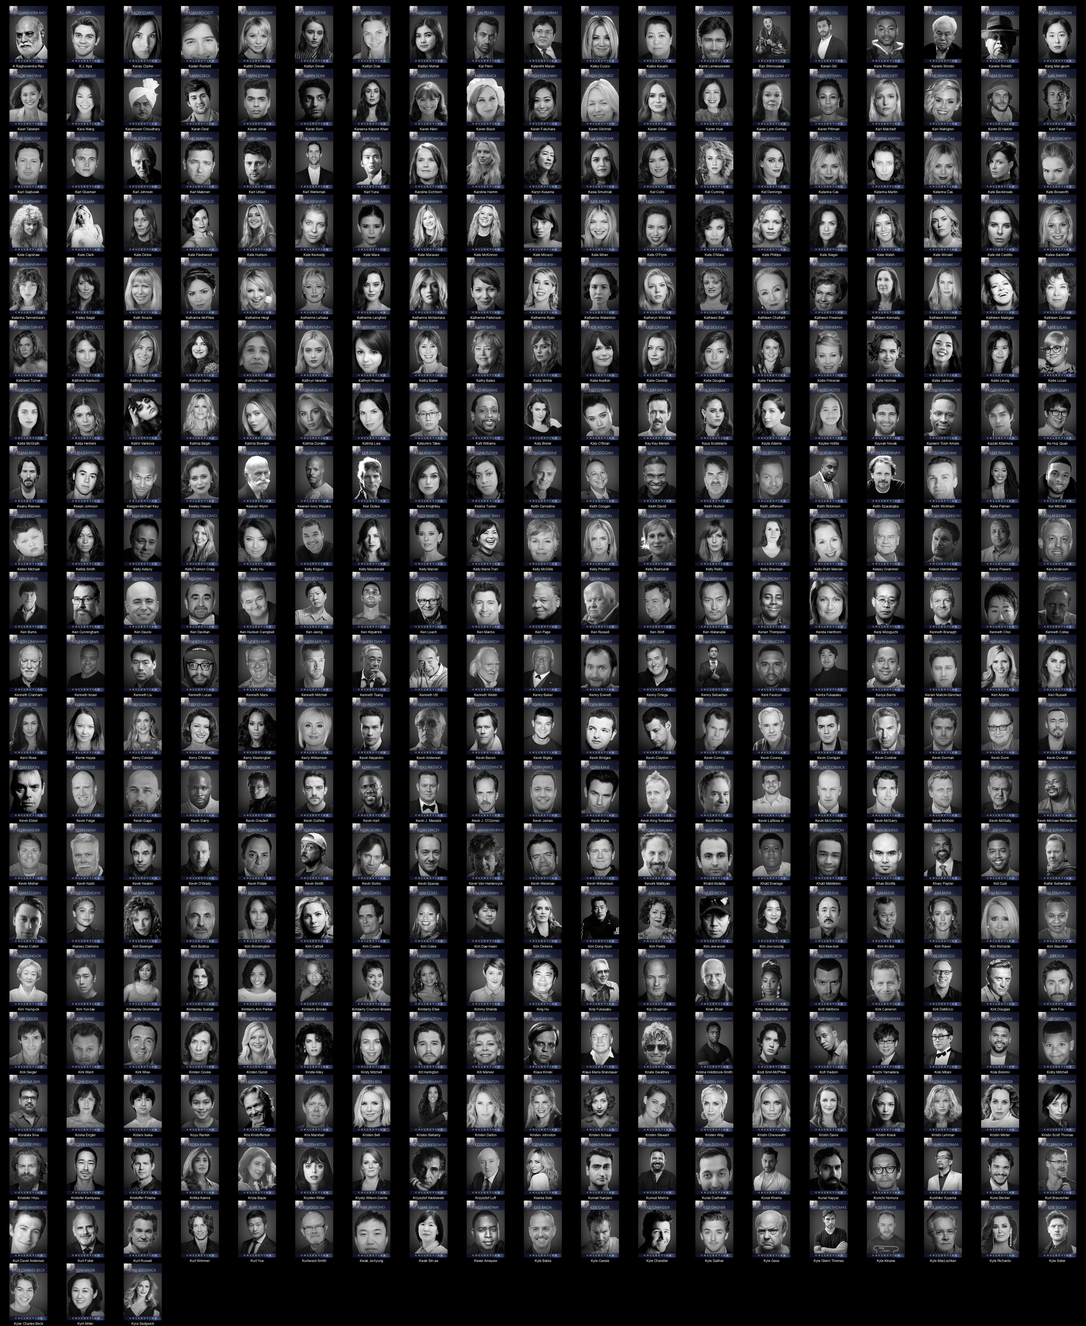
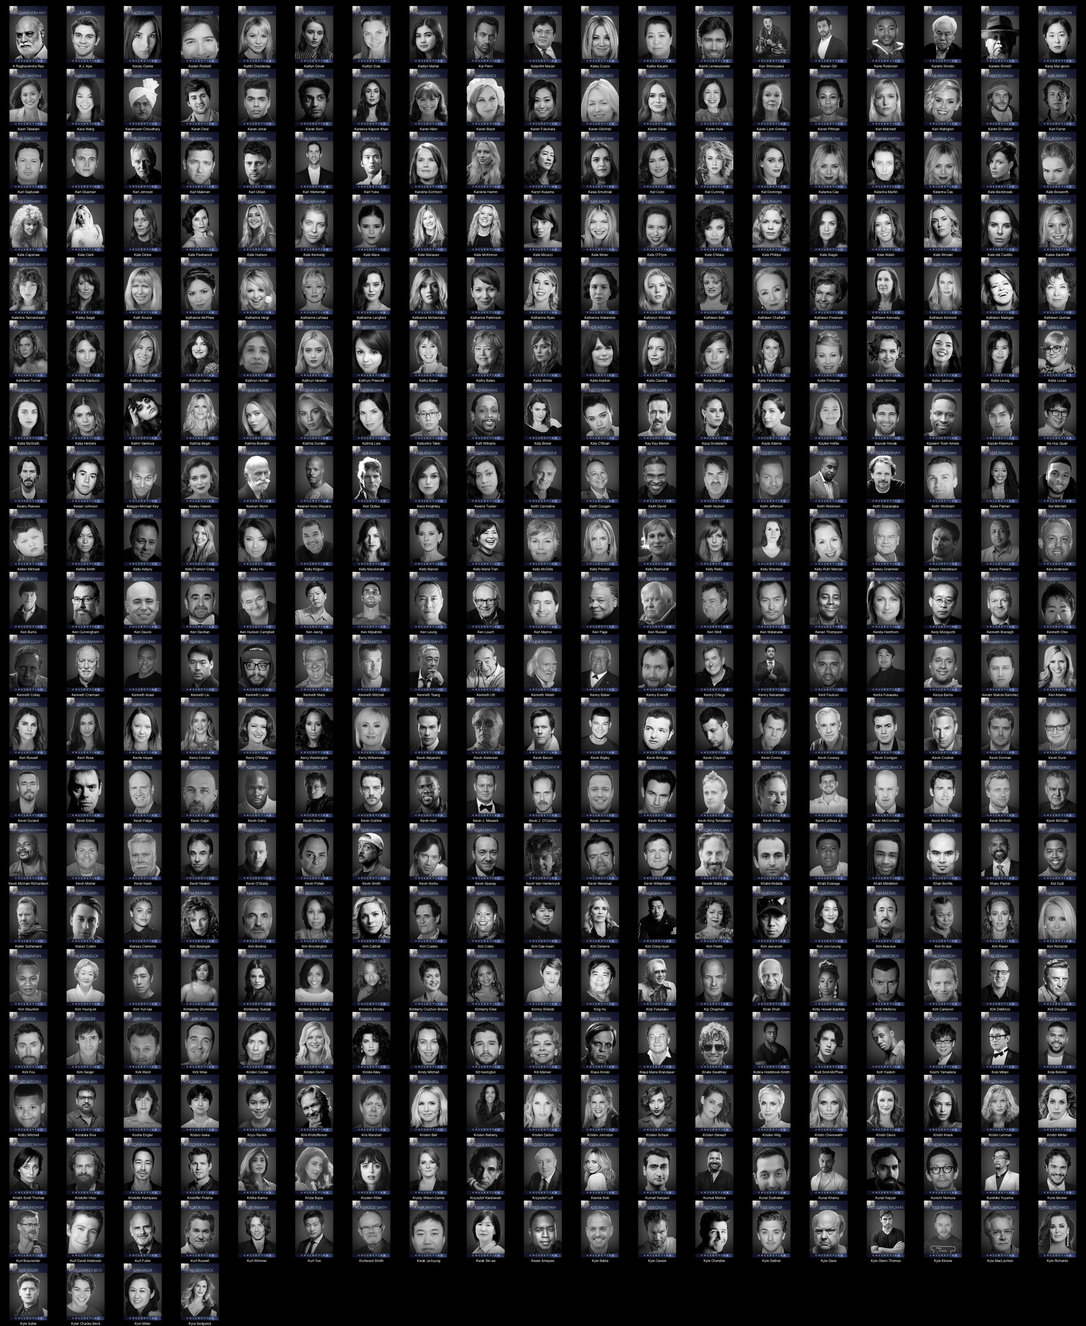
Readme Update

Changed region(s): [[0.0, 0.4375, 0.9937, 1.0]]

diff --git a/README.md b/README.md
@@ -1,15 +1,16 @@
-# Plex Meta Manager People - DIIIVOY (diiivoy) (8616 Images)
+# Plex Meta Manager People - DIIIVOY (diiivoy) (8627 Images)
 
 <details><summary><a href="'">' (1 Images)</a></summary>
 
 * ['Weird Al' Yankovic](https://raw.githubusercontent.com/meisnate12/Plex-Meta-Manager-People-diiivoy/master/'/Images/%27Weird%20Al%27%20Yankovic.jpg)
 </details>
-<details><summary><a href="A">A (710 Images)</a></summary>
+<details><summary><a href="A">A (711 Images)</a></summary>
 
 * [Aamir Khan](https://raw.githubusercontent.com/meisnate12/Plex-Meta-Manager-People-diiivoy/master/A/Images/Aamir%20Khan.jpg)
 * [Aanand L. Rai](https://raw.githubusercontent.com/meisnate12/Plex-Meta-Manager-People-diiivoy/master/A/Images/Aanand%20L.%20Rai.jpg)
 * [Aaron Ashmore](https://raw.githubusercontent.com/meisnate12/Plex-Meta-Manager-People-diiivoy/master/A/Images/Aaron%20Ashmore.jpg)
 * [Aaron Beelner](https://raw.githubusercontent.com/meisnate12/Plex-Meta-Manager-People-diiivoy/master/A/Images/Aaron%20Beelner.jpg)
+* [Aaron Burns](https://raw.githubusercontent.com/meisnate12/Plex-Meta-Manager-People-diiivoy/master/A/Images/Aaron%20Burns.jpg)
 * [Aaron Eckhart](https://raw.githubusercontent.com/meisnate12/Plex-Meta-Manager-People-diiivoy/master/A/Images/Aaron%20Eckhart.jpg)
 * [Aaron Haynes](https://raw.githubusercontent.com/meisnate12/Plex-Meta-Manager-People-diiivoy/master/A/Images/Aaron%20Haynes.jpg)
 * [Aaron Hilmer](https://raw.githubusercontent.com/meisnate12/Plex-Meta-Manager-People-diiivoy/master/A/Images/Aaron%20Hilmer.jpg)
@@ -2812,7 +2813,7 @@
 * [Fritz Lang](https://raw.githubusercontent.com/meisnate12/Plex-Meta-Manager-People-diiivoy/master/F/Images/Fritz%20Lang.jpg)
 * [Frédéric North](https://raw.githubusercontent.com/meisnate12/Plex-Meta-Manager-People-diiivoy/master/F/Images/Fr%C3%A9d%C3%A9ric%20North.jpg)
 </details>
-<details><summary><a href="G">G (300 Images)</a></summary>
+<details><summary><a href="G">G (302 Images)</a></summary>
 
 * [G-Eazy](https://raw.githubusercontent.com/meisnate12/Plex-Meta-Manager-People-diiivoy/master/G/Images/G-Eazy.jpg)
 * [G. D. Spradlin](https://raw.githubusercontent.com/meisnate12/Plex-Meta-Manager-People-diiivoy/master/G/Images/G.%20D.%20Spradlin.jpg)
@@ -2935,6 +2936,7 @@
 * [George Sear](https://raw.githubusercontent.com/meisnate12/Plex-Meta-Manager-People-diiivoy/master/G/Images/George%20Sear.jpg)
 * [George Segal](https://raw.githubusercontent.com/meisnate12/Plex-Meta-Manager-People-diiivoy/master/G/Images/George%20Segal.jpg)
 * [George Takei](https://raw.githubusercontent.com/meisnate12/Plex-Meta-Manager-People-diiivoy/master/G/Images/George%20Takei.jpg)
+* [George Tillman Jr.](https://raw.githubusercontent.com/meisnate12/Plex-Meta-Manager-People-diiivoy/master/G/Images/George%20Tillman%20Jr..jpg)
 * [George Wendt](https://raw.githubusercontent.com/meisnate12/Plex-Meta-Manager-People-diiivoy/master/G/Images/George%20Wendt.jpg)
 * [George Zucco](https://raw.githubusercontent.com/meisnate12/Plex-Meta-Manager-People-diiivoy/master/G/Images/George%20Zucco.jpg)
 * [Georges Khabbaz](https://raw.githubusercontent.com/meisnate12/Plex-Meta-Manager-People-diiivoy/master/G/Images/Georges%20Khabbaz.jpg)
@@ -2942,6 +2944,7 @@
 * [Georges Rivière](https://raw.githubusercontent.com/meisnate12/Plex-Meta-Manager-People-diiivoy/master/G/Images/Georges%20Rivi%C3%A8re.jpg)
 * [Georges St-Pierre](https://raw.githubusercontent.com/meisnate12/Plex-Meta-Manager-People-diiivoy/master/G/Images/Georges%20St-Pierre.jpg)
 * [Georgia Meacham](https://raw.githubusercontent.com/meisnate12/Plex-Meta-Manager-People-diiivoy/master/G/Images/Georgia%20Meacham.jpg)
+* [Georgia Oakley](https://raw.githubusercontent.com/meisnate12/Plex-Meta-Manager-People-diiivoy/master/G/Images/Georgia%20Oakley.jpg)
 * [Georgie Glen](https://raw.githubusercontent.com/meisnate12/Plex-Meta-Manager-People-diiivoy/master/G/Images/Georgie%20Glen.jpg)
 * [Georgie Henley](https://raw.githubusercontent.com/meisnate12/Plex-Meta-Manager-People-diiivoy/master/G/Images/Georgie%20Henley.jpg)
 * [Georgina Cates](https://raw.githubusercontent.com/meisnate12/Plex-Meta-Manager-People-diiivoy/master/G/Images/Georgina%20Cates.jpg)
@@ -3422,7 +3425,7 @@
 * [Izaac Wang](https://raw.githubusercontent.com/meisnate12/Plex-Meta-Manager-People-diiivoy/master/I/Images/Izaac%20Wang.jpg)
 * [Izabella Scorupco](https://raw.githubusercontent.com/meisnate12/Plex-Meta-Manager-People-diiivoy/master/I/Images/Izabella%20Scorupco.jpg)
 </details>
-<details><summary><a href="J">J (1067 Images)</a></summary>
+<details><summary><a href="J">J (1069 Images)</a></summary>
 
 * [J'Dvonte](https://raw.githubusercontent.com/meisnate12/Plex-Meta-Manager-People-diiivoy/master/J/Images/J%27Dvonte.jpg)
 * [J. A. Bayona](https://raw.githubusercontent.com/meisnate12/Plex-Meta-Manager-People-diiivoy/master/J/Images/J.%20A.%20Bayona.jpg)
@@ -3573,6 +3576,7 @@
 * [James Marsden](https://raw.githubusercontent.com/meisnate12/Plex-Meta-Manager-People-diiivoy/master/J/Images/James%20Marsden.jpg)
 * [James Marsters](https://raw.githubusercontent.com/meisnate12/Plex-Meta-Manager-People-diiivoy/master/J/Images/James%20Marsters.jpg)
 * [James Mason](https://raw.githubusercontent.com/meisnate12/Plex-Meta-Manager-People-diiivoy/master/J/Images/James%20Mason.jpg)
+* [James May](https://raw.githubusercontent.com/meisnate12/Plex-Meta-Manager-People-diiivoy/master/J/Images/James%20May.jpg)
 * [James McAvoy](https://raw.githubusercontent.com/meisnate12/Plex-Meta-Manager-People-diiivoy/master/J/Images/James%20McAvoy.jpg)
 * [James McGrath](https://raw.githubusercontent.com/meisnate12/Plex-Meta-Manager-People-diiivoy/master/J/Images/James%20McGrath.jpg)
 * [James McTeigue](https://raw.githubusercontent.com/meisnate12/Plex-Meta-Manager-People-diiivoy/master/J/Images/James%20McTeigue.jpg)
@@ -4485,6 +4489,7 @@
 * [Justin Roiland](https://raw.githubusercontent.com/meisnate12/Plex-Meta-Manager-People-diiivoy/master/J/Images/Justin%20Roiland.jpg)
 * [Justin Theroux](https://raw.githubusercontent.com/meisnate12/Plex-Meta-Manager-People-diiivoy/master/J/Images/Justin%20Theroux.jpg)
 * [Justin Timberlake](https://raw.githubusercontent.com/meisnate12/Plex-Meta-Manager-People-diiivoy/master/J/Images/Justin%20Timberlake.jpg)
+* [Justine Triet](https://raw.githubusercontent.com/meisnate12/Plex-Meta-Manager-People-diiivoy/master/J/Images/Justine%20Triet.jpg)
 * [Justyn Shippelt](https://raw.githubusercontent.com/meisnate12/Plex-Meta-Manager-People-diiivoy/master/J/Images/Justyn%20Shippelt.jpg)
 * [Jyoti Deshpande](https://raw.githubusercontent.com/meisnate12/Plex-Meta-Manager-People-diiivoy/master/J/Images/Jyoti%20Deshpande.jpg)
 * [Jóhannes Haukur Jóhannesson](https://raw.githubusercontent.com/meisnate12/Plex-Meta-Manager-People-diiivoy/master/J/Images/J%C3%B3hannes%20Haukur%20J%C3%B3hannesson.jpg)
@@ -4492,7 +4497,7 @@
 * [Jürgen Prochnow](https://raw.githubusercontent.com/meisnate12/Plex-Meta-Manager-People-diiivoy/master/J/Images/J%C3%BCrgen%20Prochnow.jpg)
 * [Jūzō Itami](https://raw.githubusercontent.com/meisnate12/Plex-Meta-Manager-People-diiivoy/master/J/Images/J%C5%ABz%C5%8D%20Itami.jpg)
 </details>
-<details><summary><a href="K">K (383 Images)</a></summary>
+<details><summary><a href="K">K (384 Images)</a></summary>
 
 * [K Raghavendra Rao](https://raw.githubusercontent.com/meisnate12/Plex-Meta-Manager-People-diiivoy/master/K/Images/K%20Raghavendra%20Rao.jpg)
 * [K.J. Apa](https://raw.githubusercontent.com/meisnate12/Plex-Meta-Manager-People-diiivoy/master/K/Images/K.J.%20Apa.jpg)
@@ -4672,6 +4677,7 @@
 * [Ken Hudson Campbell](https://raw.githubusercontent.com/meisnate12/Plex-Meta-Manager-People-diiivoy/master/K/Images/Ken%20Hudson%20Campbell.jpg)
 * [Ken Jeong](https://raw.githubusercontent.com/meisnate12/Plex-Meta-Manager-People-diiivoy/master/K/Images/Ken%20Jeong.jpg)
 * [Ken Kilpatrick](https://raw.githubusercontent.com/meisnate12/Plex-Meta-Manager-People-diiivoy/master/K/Images/Ken%20Kilpatrick.jpg)
+* [Ken Leung](https://raw.githubusercontent.com/meisnate12/Plex-Meta-Manager-People-diiivoy/master/K/Images/Ken%20Leung.jpg)
 * [Ken Loach](https://raw.githubusercontent.com/meisnate12/Plex-Meta-Manager-People-diiivoy/master/K/Images/Ken%20Loach.jpg)
 * [Ken Marino](https://raw.githubusercontent.com/meisnate12/Plex-Meta-Manager-People-diiivoy/master/K/Images/Ken%20Marino.jpg)
 * [Ken Page](https://raw.githubusercontent.com/meisnate12/Plex-Meta-Manager-People-diiivoy/master/K/Images/Ken%20Page.jpg)
@@ -5260,7 +5266,7 @@
 * [Léa Seydoux](https://raw.githubusercontent.com/meisnate12/Plex-Meta-Manager-People-diiivoy/master/L/Images/L%C3%A9a%20Seydoux.jpg)
 * [Lúcio Andrey](https://raw.githubusercontent.com/meisnate12/Plex-Meta-Manager-People-diiivoy/master/L/Images/L%C3%BAcio%20Andrey.jpg)
 </details>
-<details><summary><a href="M">M (785 Images)</a></summary>
+<details><summary><a href="M">M (787 Images)</a></summary>
 
 * [M'laah Kaur Singh](https://raw.githubusercontent.com/meisnate12/Plex-Meta-Manager-People-diiivoy/master/M/Images/M%27laah%20Kaur%20Singh.jpg)
 * [M. Emmet Walsh](https://raw.githubusercontent.com/meisnate12/Plex-Meta-Manager-People-diiivoy/master/M/Images/M.%20Emmet%20Walsh.jpg)
@@ -5600,6 +5606,7 @@
 * [Matt Helm](https://raw.githubusercontent.com/meisnate12/Plex-Meta-Manager-People-diiivoy/master/M/Images/Matt%20Helm.jpg)
 * [Matt Holloway](https://raw.githubusercontent.com/meisnate12/Plex-Meta-Manager-People-diiivoy/master/M/Images/Matt%20Holloway.jpg)
 * [Matt Hughes](https://raw.githubusercontent.com/meisnate12/Plex-Meta-Manager-People-diiivoy/master/M/Images/Matt%20Hughes.jpg)
+* [Matt Johnson](https://raw.githubusercontent.com/meisnate12/Plex-Meta-Manager-People-diiivoy/master/M/Images/Matt%20Johnson.jpg)
 * [Matt Jones](https://raw.githubusercontent.com/meisnate12/Plex-Meta-Manager-People-diiivoy/master/M/Images/Matt%20Jones.jpg)
 * [Matt Keeslar](https://raw.githubusercontent.com/meisnate12/Plex-Meta-Manager-People-diiivoy/master/M/Images/Matt%20Keeslar.jpg)
 * [Matt LeBlanc](https://raw.githubusercontent.com/meisnate12/Plex-Meta-Manager-People-diiivoy/master/M/Images/Matt%20LeBlanc.jpg)
@@ -5677,6 +5684,7 @@
 * [Maya Hawke](https://raw.githubusercontent.com/meisnate12/Plex-Meta-Manager-People-diiivoy/master/M/Images/Maya%20Hawke.jpg)
 * [Maya Rudolph](https://raw.githubusercontent.com/meisnate12/Plex-Meta-Manager-People-diiivoy/master/M/Images/Maya%20Rudolph.jpg)
 * [Maya Saroya](https://raw.githubusercontent.com/meisnate12/Plex-Meta-Manager-People-diiivoy/master/M/Images/Maya%20Saroya.jpg)
+* [Maynard James Keenan](https://raw.githubusercontent.com/meisnate12/Plex-Meta-Manager-People-diiivoy/master/M/Images/Maynard%20James%20Keenan.jpg)
 * [Mayumi Tanaka](https://raw.githubusercontent.com/meisnate12/Plex-Meta-Manager-People-diiivoy/master/M/Images/Mayumi%20Tanaka.jpg)
 * [Maz Jobrani](https://raw.githubusercontent.com/meisnate12/Plex-Meta-Manager-People-diiivoy/master/M/Images/Maz%20Jobrani.jpg)
 * [McG](https://raw.githubusercontent.com/meisnate12/Plex-Meta-Manager-People-diiivoy/master/M/Images/McG.jpg)
@@ -6728,7 +6736,7 @@
 * [Quinn Duffy](https://raw.githubusercontent.com/meisnate12/Plex-Meta-Manager-People-diiivoy/master/Q/Images/Quinn%20Duffy.jpg)
 * [Quinton Jackson](https://raw.githubusercontent.com/meisnate12/Plex-Meta-Manager-People-diiivoy/master/Q/Images/Quinton%20Jackson.jpg)
 </details>
-<details><summary><a href="R">R (557 Images)</a></summary>
+<details><summary><a href="R">R (560 Images)</a></summary>
 
 * [R. Lee Ermey](https://raw.githubusercontent.com/meisnate12/Plex-Meta-Manager-People-diiivoy/master/R/Images/R.%20Lee%20Ermey.jpg)
 * [R. Madhavan](https://raw.githubusercontent.com/meisnate12/Plex-Meta-Manager-People-diiivoy/master/R/Images/R.%20Madhavan.jpg)
@@ -7130,6 +7138,8 @@
 * [Roger Avary](https://raw.githubusercontent.com/meisnate12/Plex-Meta-Manager-People-diiivoy/master/R/Images/Roger%20Avary.jpg)
 * [Roger Birnbaum](https://raw.githubusercontent.com/meisnate12/Plex-Meta-Manager-People-diiivoy/master/R/Images/Roger%20Birnbaum.jpg)
 * [Roger Carel](https://raw.githubusercontent.com/meisnate12/Plex-Meta-Manager-People-diiivoy/master/R/Images/Roger%20Carel.jpg)
+* [Roger Christian](https://raw.githubusercontent.com/meisnate12/Plex-Meta-Manager-People-diiivoy/master/R/Images/Roger%20Christian.jpg)
+* [Roger Christiansen](https://raw.githubusercontent.com/meisnate12/Plex-Meta-Manager-People-diiivoy/master/R/Images/Roger%20Christiansen.jpg)
 * [Roger Corman](https://raw.githubusercontent.com/meisnate12/Plex-Meta-Manager-People-diiivoy/master/R/Images/Roger%20Corman.jpg)
 * [Roger Craig Smith](https://raw.githubusercontent.com/meisnate12/Plex-Meta-Manager-People-diiivoy/master/R/Images/Roger%20Craig%20Smith.jpg)
 * [Roger Cross](https://raw.githubusercontent.com/meisnate12/Plex-Meta-Manager-People-diiivoy/master/R/Images/Roger%20Cross.jpg)
@@ -7208,6 +7218,7 @@
 * [Ross McCall](https://raw.githubusercontent.com/meisnate12/Plex-Meta-Manager-People-diiivoy/master/R/Images/Ross%20McCall.jpg)
 * [Ross Noble](https://raw.githubusercontent.com/meisnate12/Plex-Meta-Manager-People-diiivoy/master/R/Images/Ross%20Noble.jpg)
 * [Rossella Falk](https://raw.githubusercontent.com/meisnate12/Plex-Meta-Manager-People-diiivoy/master/R/Images/Rossella%20Falk.jpg)
+* [Rosy McEwen](https://raw.githubusercontent.com/meisnate12/Plex-Meta-Manager-People-diiivoy/master/R/Images/Rosy%20McEwen.jpg)
 * [Rowan Atkinson](https://raw.githubusercontent.com/meisnate12/Plex-Meta-Manager-People-diiivoy/master/R/Images/Rowan%20Atkinson.jpg)
 * [Rowan Blanchard](https://raw.githubusercontent.com/meisnate12/Plex-Meta-Manager-People-diiivoy/master/R/Images/Rowan%20Blanchard.jpg)
 * [Rowan Joffe](https://raw.githubusercontent.com/meisnate12/Plex-Meta-Manager-People-diiivoy/master/R/Images/Rowan%20Joffe.jpg)

diff --git a/R/README.md b/R/README.md
@@ -1,4 +1,4 @@
-# Plex Meta Manager People - DIIIVOY (diiivoy) - R (557 Images)
+# Plex Meta Manager People - DIIIVOY (diiivoy) - R (560 Images)
 ![Grid](grid.jpg)
 
 * [R. Lee Ermey](https://raw.githubusercontent.com/meisnate12/Plex-Meta-Manager-People-diiivoy/master/R/Images/R.%20Lee%20Ermey.jpg)
@@ -401,6 +401,8 @@
 * [Roger Avary](https://raw.githubusercontent.com/meisnate12/Plex-Meta-Manager-People-diiivoy/master/R/Images/Roger%20Avary.jpg)
 * [Roger Birnbaum](https://raw.githubusercontent.com/meisnate12/Plex-Meta-Manager-People-diiivoy/master/R/Images/Roger%20Birnbaum.jpg)
 * [Roger Carel](https://raw.githubusercontent.com/meisnate12/Plex-Meta-Manager-People-diiivoy/master/R/Images/Roger%20Carel.jpg)
+* [Roger Christian](https://raw.githubusercontent.com/meisnate12/Plex-Meta-Manager-People-diiivoy/master/R/Images/Roger%20Christian.jpg)
+* [Roger Christiansen](https://raw.githubusercontent.com/meisnate12/Plex-Meta-Manager-People-diiivoy/master/R/Images/Roger%20Christiansen.jpg)
 * [Roger Corman](https://raw.githubusercontent.com/meisnate12/Plex-Meta-Manager-People-diiivoy/master/R/Images/Roger%20Corman.jpg)
 * [Roger Craig Smith](https://raw.githubusercontent.com/meisnate12/Plex-Meta-Manager-People-diiivoy/master/R/Images/Roger%20Craig%20Smith.jpg)
 * [Roger Cross](https://raw.githubusercontent.com/meisnate12/Plex-Meta-Manager-People-diiivoy/master/R/Images/Roger%20Cross.jpg)
@@ -479,6 +481,7 @@
 * [Ross McCall](https://raw.githubusercontent.com/meisnate12/Plex-Meta-Manager-People-diiivoy/master/R/Images/Ross%20McCall.jpg)
 * [Ross Noble](https://raw.githubusercontent.com/meisnate12/Plex-Meta-Manager-People-diiivoy/master/R/Images/Ross%20Noble.jpg)
 * [Rossella Falk](https://raw.githubusercontent.com/meisnate12/Plex-Meta-Manager-People-diiivoy/master/R/Images/Rossella%20Falk.jpg)
+* [Rosy McEwen](https://raw.githubusercontent.com/meisnate12/Plex-Meta-Manager-People-diiivoy/master/R/Images/Rosy%20McEwen.jpg)
 * [Rowan Atkinson](https://raw.githubusercontent.com/meisnate12/Plex-Meta-Manager-People-diiivoy/master/R/Images/Rowan%20Atkinson.jpg)
 * [Rowan Blanchard](https://raw.githubusercontent.com/meisnate12/Plex-Meta-Manager-People-diiivoy/master/R/Images/Rowan%20Blanchard.jpg)
 * [Rowan Joffe](https://raw.githubusercontent.com/meisnate12/Plex-Meta-Manager-People-diiivoy/master/R/Images/Rowan%20Joffe.jpg)

diff --git a/J/README.md b/J/README.md
@@ -1,4 +1,4 @@
-# Plex Meta Manager People - DIIIVOY (diiivoy) - J (1067 Images)
+# Plex Meta Manager People - DIIIVOY (diiivoy) - J (1069 Images)
 ![Grid](grid.jpg)
 
 * [J'Dvonte](https://raw.githubusercontent.com/meisnate12/Plex-Meta-Manager-People-diiivoy/master/J/Images/J%27Dvonte.jpg)
@@ -150,6 +150,7 @@
 * [James Marsden](https://raw.githubusercontent.com/meisnate12/Plex-Meta-Manager-People-diiivoy/master/J/Images/James%20Marsden.jpg)
 * [James Marsters](https://raw.githubusercontent.com/meisnate12/Plex-Meta-Manager-People-diiivoy/master/J/Images/James%20Marsters.jpg)
 * [James Mason](https://raw.githubusercontent.com/meisnate12/Plex-Meta-Manager-People-diiivoy/master/J/Images/James%20Mason.jpg)
+* [James May](https://raw.githubusercontent.com/meisnate12/Plex-Meta-Manager-People-diiivoy/master/J/Images/James%20May.jpg)
 * [James McAvoy](https://raw.githubusercontent.com/meisnate12/Plex-Meta-Manager-People-diiivoy/master/J/Images/James%20McAvoy.jpg)
 * [James McGrath](https://raw.githubusercontent.com/meisnate12/Plex-Meta-Manager-People-diiivoy/master/J/Images/James%20McGrath.jpg)
 * [James McTeigue](https://raw.githubusercontent.com/meisnate12/Plex-Meta-Manager-People-diiivoy/master/J/Images/James%20McTeigue.jpg)
@@ -1062,6 +1063,7 @@
 * [Justin Roiland](https://raw.githubusercontent.com/meisnate12/Plex-Meta-Manager-People-diiivoy/master/J/Images/Justin%20Roiland.jpg)
 * [Justin Theroux](https://raw.githubusercontent.com/meisnate12/Plex-Meta-Manager-People-diiivoy/master/J/Images/Justin%20Theroux.jpg)
 * [Justin Timberlake](https://raw.githubusercontent.com/meisnate12/Plex-Meta-Manager-People-diiivoy/master/J/Images/Justin%20Timberlake.jpg)
+* [Justine Triet](https://raw.githubusercontent.com/meisnate12/Plex-Meta-Manager-People-diiivoy/master/J/Images/Justine%20Triet.jpg)
 * [Justyn Shippelt](https://raw.githubusercontent.com/meisnate12/Plex-Meta-Manager-People-diiivoy/master/J/Images/Justyn%20Shippelt.jpg)
 * [Jyoti Deshpande](https://raw.githubusercontent.com/meisnate12/Plex-Meta-Manager-People-diiivoy/master/J/Images/Jyoti%20Deshpande.jpg)
 * [Jóhannes Haukur Jóhannesson](https://raw.githubusercontent.com/meisnate12/Plex-Meta-Manager-People-diiivoy/master/J/Images/J%C3%B3hannes%20Haukur%20J%C3%B3hannesson.jpg)

diff --git a/G/README.md b/G/README.md
@@ -1,4 +1,4 @@
-# Plex Meta Manager People - DIIIVOY (diiivoy) - G (300 Images)
+# Plex Meta Manager People - DIIIVOY (diiivoy) - G (302 Images)
 ![Grid](grid.jpg)
 
 * [G-Eazy](https://raw.githubusercontent.com/meisnate12/Plex-Meta-Manager-People-diiivoy/master/G/Images/G-Eazy.jpg)
@@ -122,6 +122,7 @@
 * [George Sear](https://raw.githubusercontent.com/meisnate12/Plex-Meta-Manager-People-diiivoy/master/G/Images/George%20Sear.jpg)
 * [George Segal](https://raw.githubusercontent.com/meisnate12/Plex-Meta-Manager-People-diiivoy/master/G/Images/George%20Segal.jpg)
 * [George Takei](https://raw.githubusercontent.com/meisnate12/Plex-Meta-Manager-People-diiivoy/master/G/Images/George%20Takei.jpg)
+* [George Tillman Jr.](https://raw.githubusercontent.com/meisnate12/Plex-Meta-Manager-People-diiivoy/master/G/Images/George%20Tillman%20Jr..jpg)
 * [George Wendt](https://raw.githubusercontent.com/meisnate12/Plex-Meta-Manager-People-diiivoy/master/G/Images/George%20Wendt.jpg)
 * [George Zucco](https://raw.githubusercontent.com/meisnate12/Plex-Meta-Manager-People-diiivoy/master/G/Images/George%20Zucco.jpg)
 * [Georges Khabbaz](https://raw.githubusercontent.com/meisnate12/Plex-Meta-Manager-People-diiivoy/master/G/Images/Georges%20Khabbaz.jpg)
@@ -129,6 +130,7 @@
 * [Georges Rivière](https://raw.githubusercontent.com/meisnate12/Plex-Meta-Manager-People-diiivoy/master/G/Images/Georges%20Rivi%C3%A8re.jpg)
 * [Georges St-Pierre](https://raw.githubusercontent.com/meisnate12/Plex-Meta-Manager-People-diiivoy/master/G/Images/Georges%20St-Pierre.jpg)
 * [Georgia Meacham](https://raw.githubusercontent.com/meisnate12/Plex-Meta-Manager-People-diiivoy/master/G/Images/Georgia%20Meacham.jpg)
+* [Georgia Oakley](https://raw.githubusercontent.com/meisnate12/Plex-Meta-Manager-People-diiivoy/master/G/Images/Georgia%20Oakley.jpg)
 * [Georgie Glen](https://raw.githubusercontent.com/meisnate12/Plex-Meta-Manager-People-diiivoy/master/G/Images/Georgie%20Glen.jpg)
 * [Georgie Henley](https://raw.githubusercontent.com/meisnate12/Plex-Meta-Manager-People-diiivoy/master/G/Images/Georgie%20Henley.jpg)
 * [Georgina Cates](https://raw.githubusercontent.com/meisnate12/Plex-Meta-Manager-People-diiivoy/master/G/Images/Georgina%20Cates.jpg)

diff --git a/M/README.md b/M/README.md
@@ -1,4 +1,4 @@
-# Plex Meta Manager People - DIIIVOY (diiivoy) - M (785 Images)
+# Plex Meta Manager People - DIIIVOY (diiivoy) - M (787 Images)
 ![Grid](grid.jpg)
 
 * [M'laah Kaur Singh](https://raw.githubusercontent.com/meisnate12/Plex-Meta-Manager-People-diiivoy/master/M/Images/M%27laah%20Kaur%20Singh.jpg)
@@ -339,6 +339,7 @@
 * [Matt Helm](https://raw.githubusercontent.com/meisnate12/Plex-Meta-Manager-People-diiivoy/master/M/Images/Matt%20Helm.jpg)
 * [Matt Holloway](https://raw.githubusercontent.com/meisnate12/Plex-Meta-Manager-People-diiivoy/master/M/Images/Matt%20Holloway.jpg)
 * [Matt Hughes](https://raw.githubusercontent.com/meisnate12/Plex-Meta-Manager-People-diiivoy/master/M/Images/Matt%20Hughes.jpg)
+* [Matt Johnson](https://raw.githubusercontent.com/meisnate12/Plex-Meta-Manager-People-diiivoy/master/M/Images/Matt%20Johnson.jpg)
 * [Matt Jones](https://raw.githubusercontent.com/meisnate12/Plex-Meta-Manager-People-diiivoy/master/M/Images/Matt%20Jones.jpg)
 * [Matt Keeslar](https://raw.githubusercontent.com/meisnate12/Plex-Meta-Manager-People-diiivoy/master/M/Images/Matt%20Keeslar.jpg)
 * [Matt LeBlanc](https://raw.githubusercontent.com/meisnate12/Plex-Meta-Manager-People-diiivoy/master/M/Images/Matt%20LeBlanc.jpg)
@@ -416,6 +417,7 @@
 * [Maya Hawke](https://raw.githubusercontent.com/meisnate12/Plex-Meta-Manager-People-diiivoy/master/M/Images/Maya%20Hawke.jpg)
 * [Maya Rudolph](https://raw.githubusercontent.com/meisnate12/Plex-Meta-Manager-People-diiivoy/master/M/Images/Maya%20Rudolph.jpg)
 * [Maya Saroya](https://raw.githubusercontent.com/meisnate12/Plex-Meta-Manager-People-diiivoy/master/M/Images/Maya%20Saroya.jpg)
+* [Maynard James Keenan](https://raw.githubusercontent.com/meisnate12/Plex-Meta-Manager-People-diiivoy/master/M/Images/Maynard%20James%20Keenan.jpg)
 * [Mayumi Tanaka](https://raw.githubusercontent.com/meisnate12/Plex-Meta-Manager-People-diiivoy/master/M/Images/Mayumi%20Tanaka.jpg)
 * [Maz Jobrani](https://raw.githubusercontent.com/meisnate12/Plex-Meta-Manager-People-diiivoy/master/M/Images/Maz%20Jobrani.jpg)
 * [McG](https://raw.githubusercontent.com/meisnate12/Plex-Meta-Manager-People-diiivoy/master/M/Images/McG.jpg)

diff --git a/K/README.md b/K/README.md
@@ -1,4 +1,4 @@
-# Plex Meta Manager People - DIIIVOY (diiivoy) - K (383 Images)
+# Plex Meta Manager People - DIIIVOY (diiivoy) - K (384 Images)
 ![Grid](grid.jpg)
 
 * [K Raghavendra Rao](https://raw.githubusercontent.com/meisnate12/Plex-Meta-Manager-People-diiivoy/master/K/Images/K%20Raghavendra%20Rao.jpg)
@@ -179,6 +179,7 @@
 * [Ken Hudson Campbell](https://raw.githubusercontent.com/meisnate12/Plex-Meta-Manager-People-diiivoy/master/K/Images/Ken%20Hudson%20Campbell.jpg)
 * [Ken Jeong](https://raw.githubusercontent.com/meisnate12/Plex-Meta-Manager-People-diiivoy/master/K/Images/Ken%20Jeong.jpg)
 * [Ken Kilpatrick](https://raw.githubusercontent.com/meisnate12/Plex-Meta-Manager-People-diiivoy/master/K/Images/Ken%20Kilpatrick.jpg)
+* [Ken Leung](https://raw.githubusercontent.com/meisnate12/Plex-Meta-Manager-People-diiivoy/master/K/Images/Ken%20Leung.jpg)
 * [Ken Loach](https://raw.githubusercontent.com/meisnate12/Plex-Meta-Manager-People-diiivoy/master/K/Images/Ken%20Loach.jpg)
 * [Ken Marino](https://raw.githubusercontent.com/meisnate12/Plex-Meta-Manager-People-diiivoy/master/K/Images/Ken%20Marino.jpg)
 * [Ken Page](https://raw.githubusercontent.com/meisnate12/Plex-Meta-Manager-People-diiivoy/master/K/Images/Ken%20Page.jpg)

diff --git a/A/README.md b/A/README.md
@@ -1,10 +1,11 @@
-# Plex Meta Manager People - DIIIVOY (diiivoy) - A (710 Images)
+# Plex Meta Manager People - DIIIVOY (diiivoy) - A (711 Images)
 ![Grid](grid.jpg)
 
 * [Aamir Khan](https://raw.githubusercontent.com/meisnate12/Plex-Meta-Manager-People-diiivoy/master/A/Images/Aamir%20Khan.jpg)
 * [Aanand L. Rai](https://raw.githubusercontent.com/meisnate12/Plex-Meta-Manager-People-diiivoy/master/A/Images/Aanand%20L.%20Rai.jpg)
 * [Aaron Ashmore](https://raw.githubusercontent.com/meisnate12/Plex-Meta-Manager-People-diiivoy/master/A/Images/Aaron%20Ashmore.jpg)
 * [Aaron Beelner](https://raw.githubusercontent.com/meisnate12/Plex-Meta-Manager-People-diiivoy/master/A/Images/Aaron%20Beelner.jpg)
+* [Aaron Burns](https://raw.githubusercontent.com/meisnate12/Plex-Meta-Manager-People-diiivoy/master/A/Images/Aaron%20Burns.jpg)
 * [Aaron Eckhart](https://raw.githubusercontent.com/meisnate12/Plex-Meta-Manager-People-diiivoy/master/A/Images/Aaron%20Eckhart.jpg)
 * [Aaron Haynes](https://raw.githubusercontent.com/meisnate12/Plex-Meta-Manager-People-diiivoy/master/A/Images/Aaron%20Haynes.jpg)
 * [Aaron Hilmer](https://raw.githubusercontent.com/meisnate12/Plex-Meta-Manager-People-diiivoy/master/A/Images/Aaron%20Hilmer.jpg)
